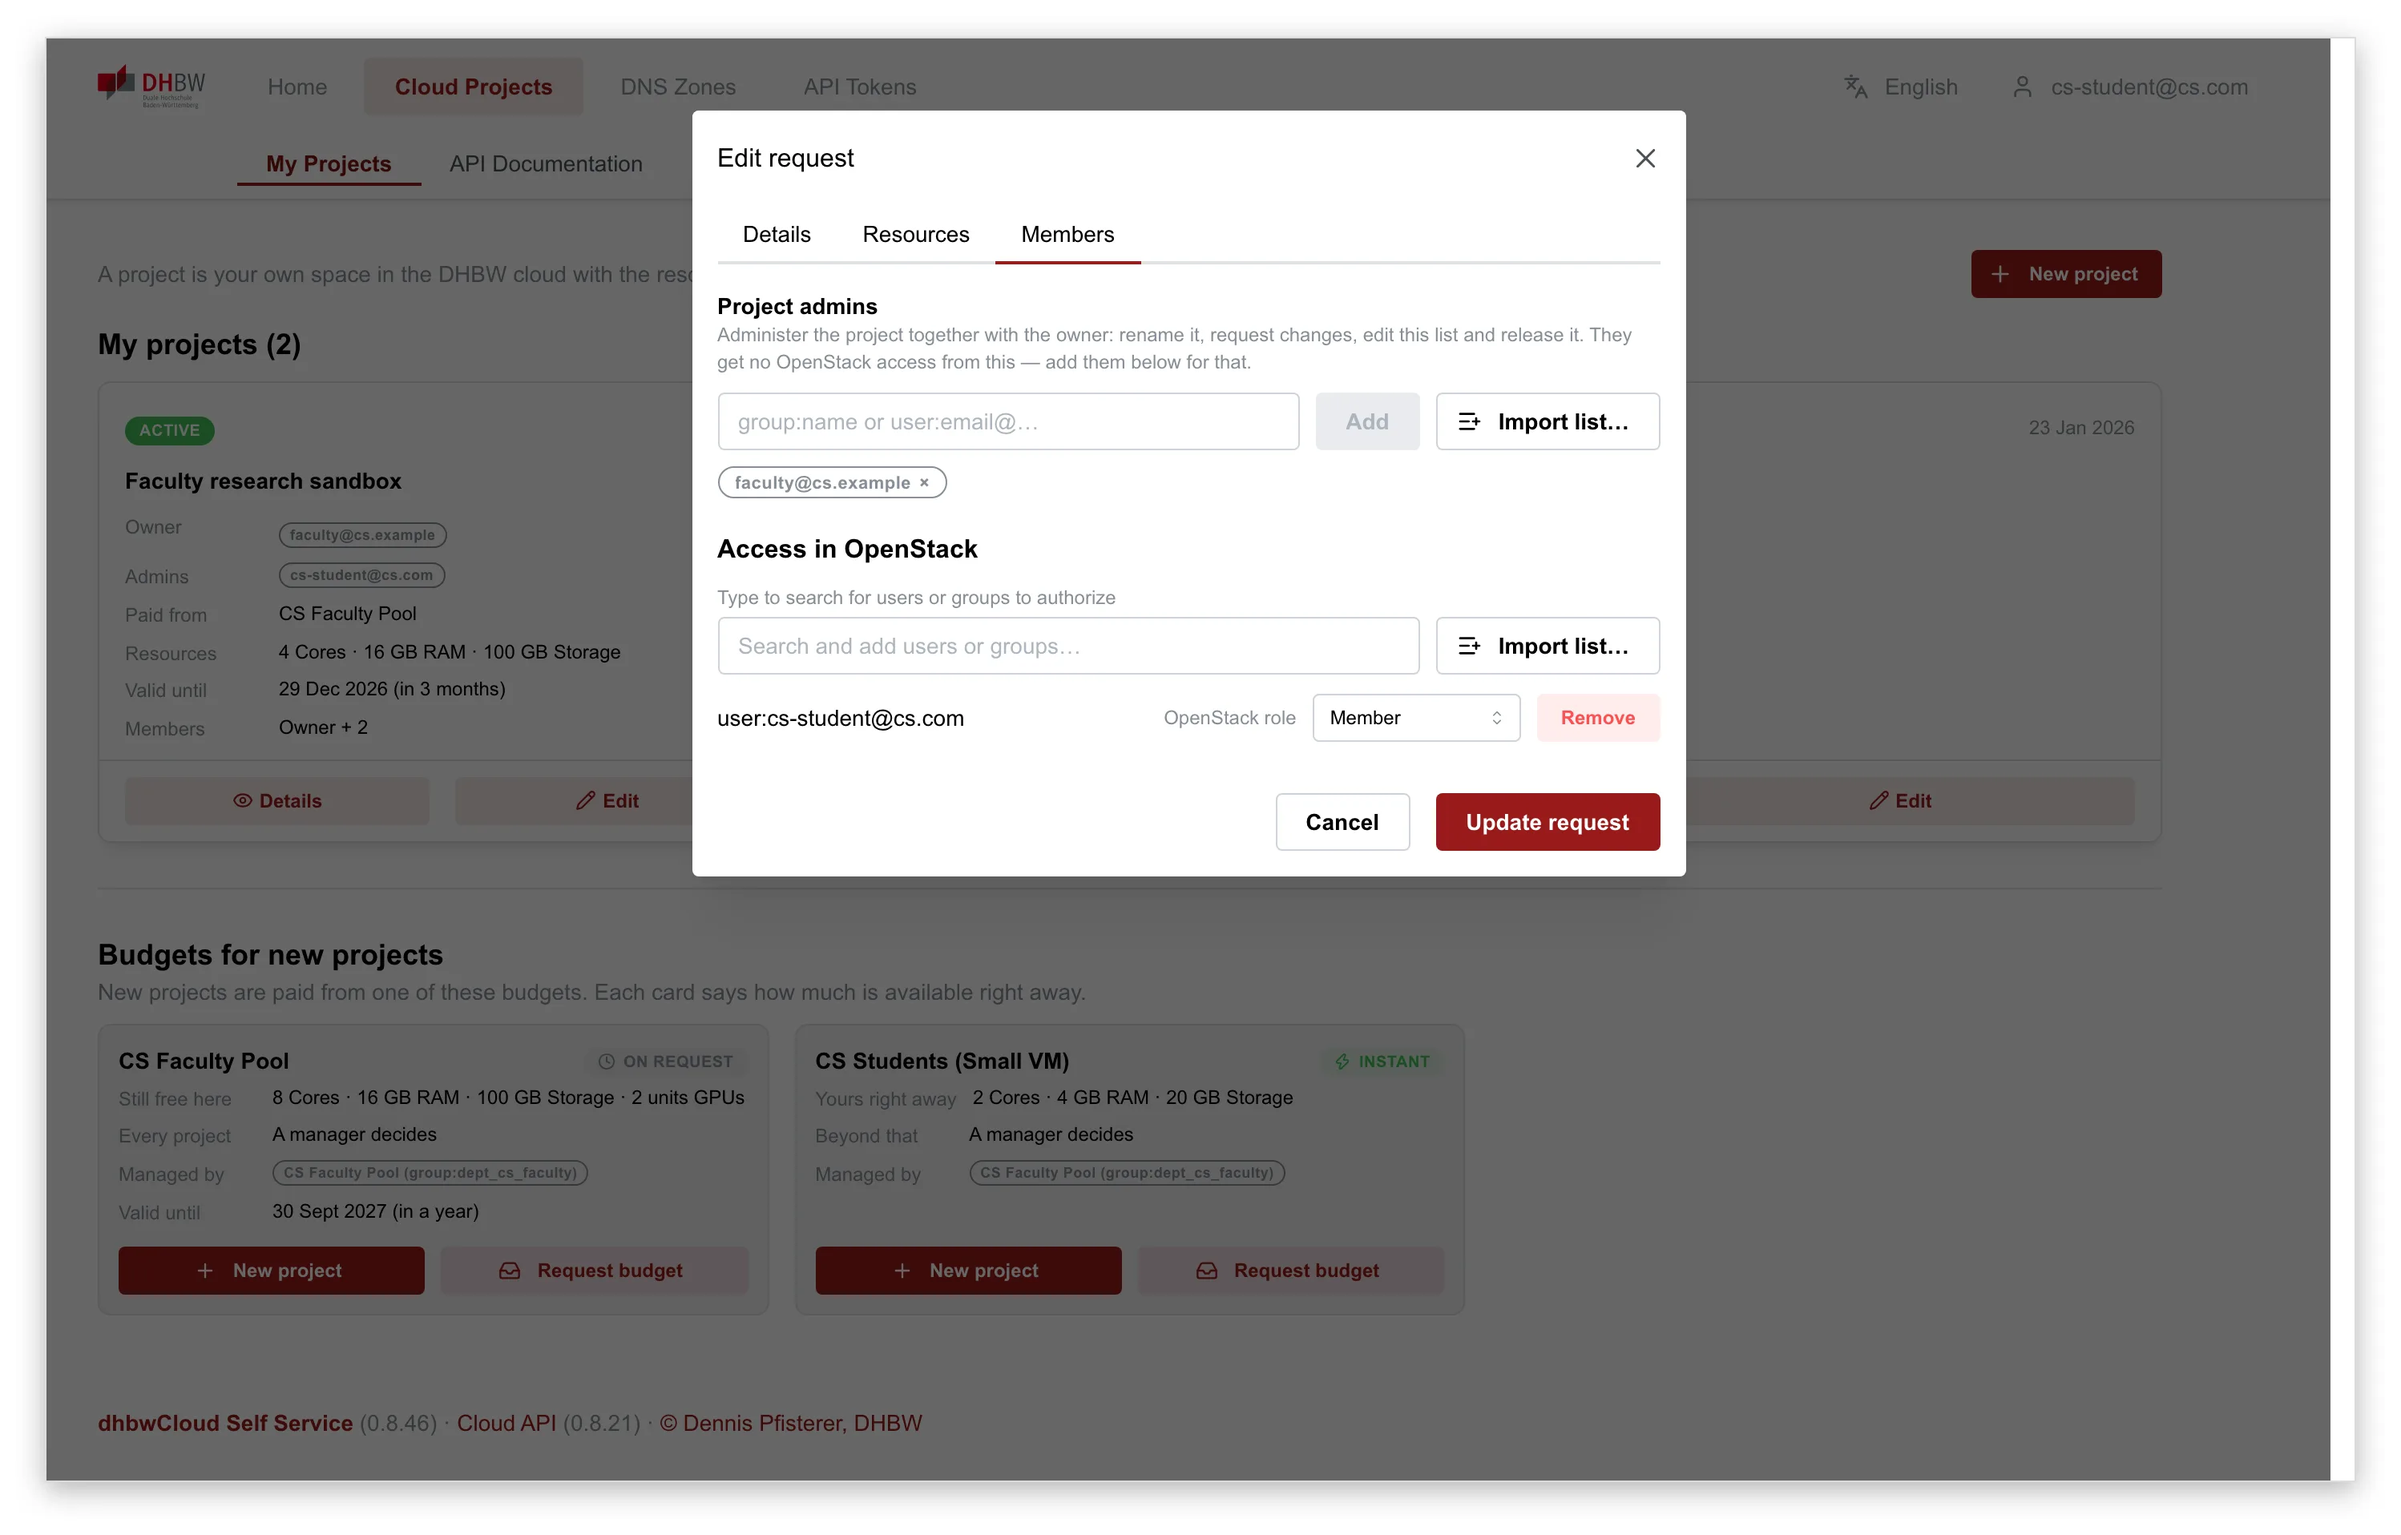
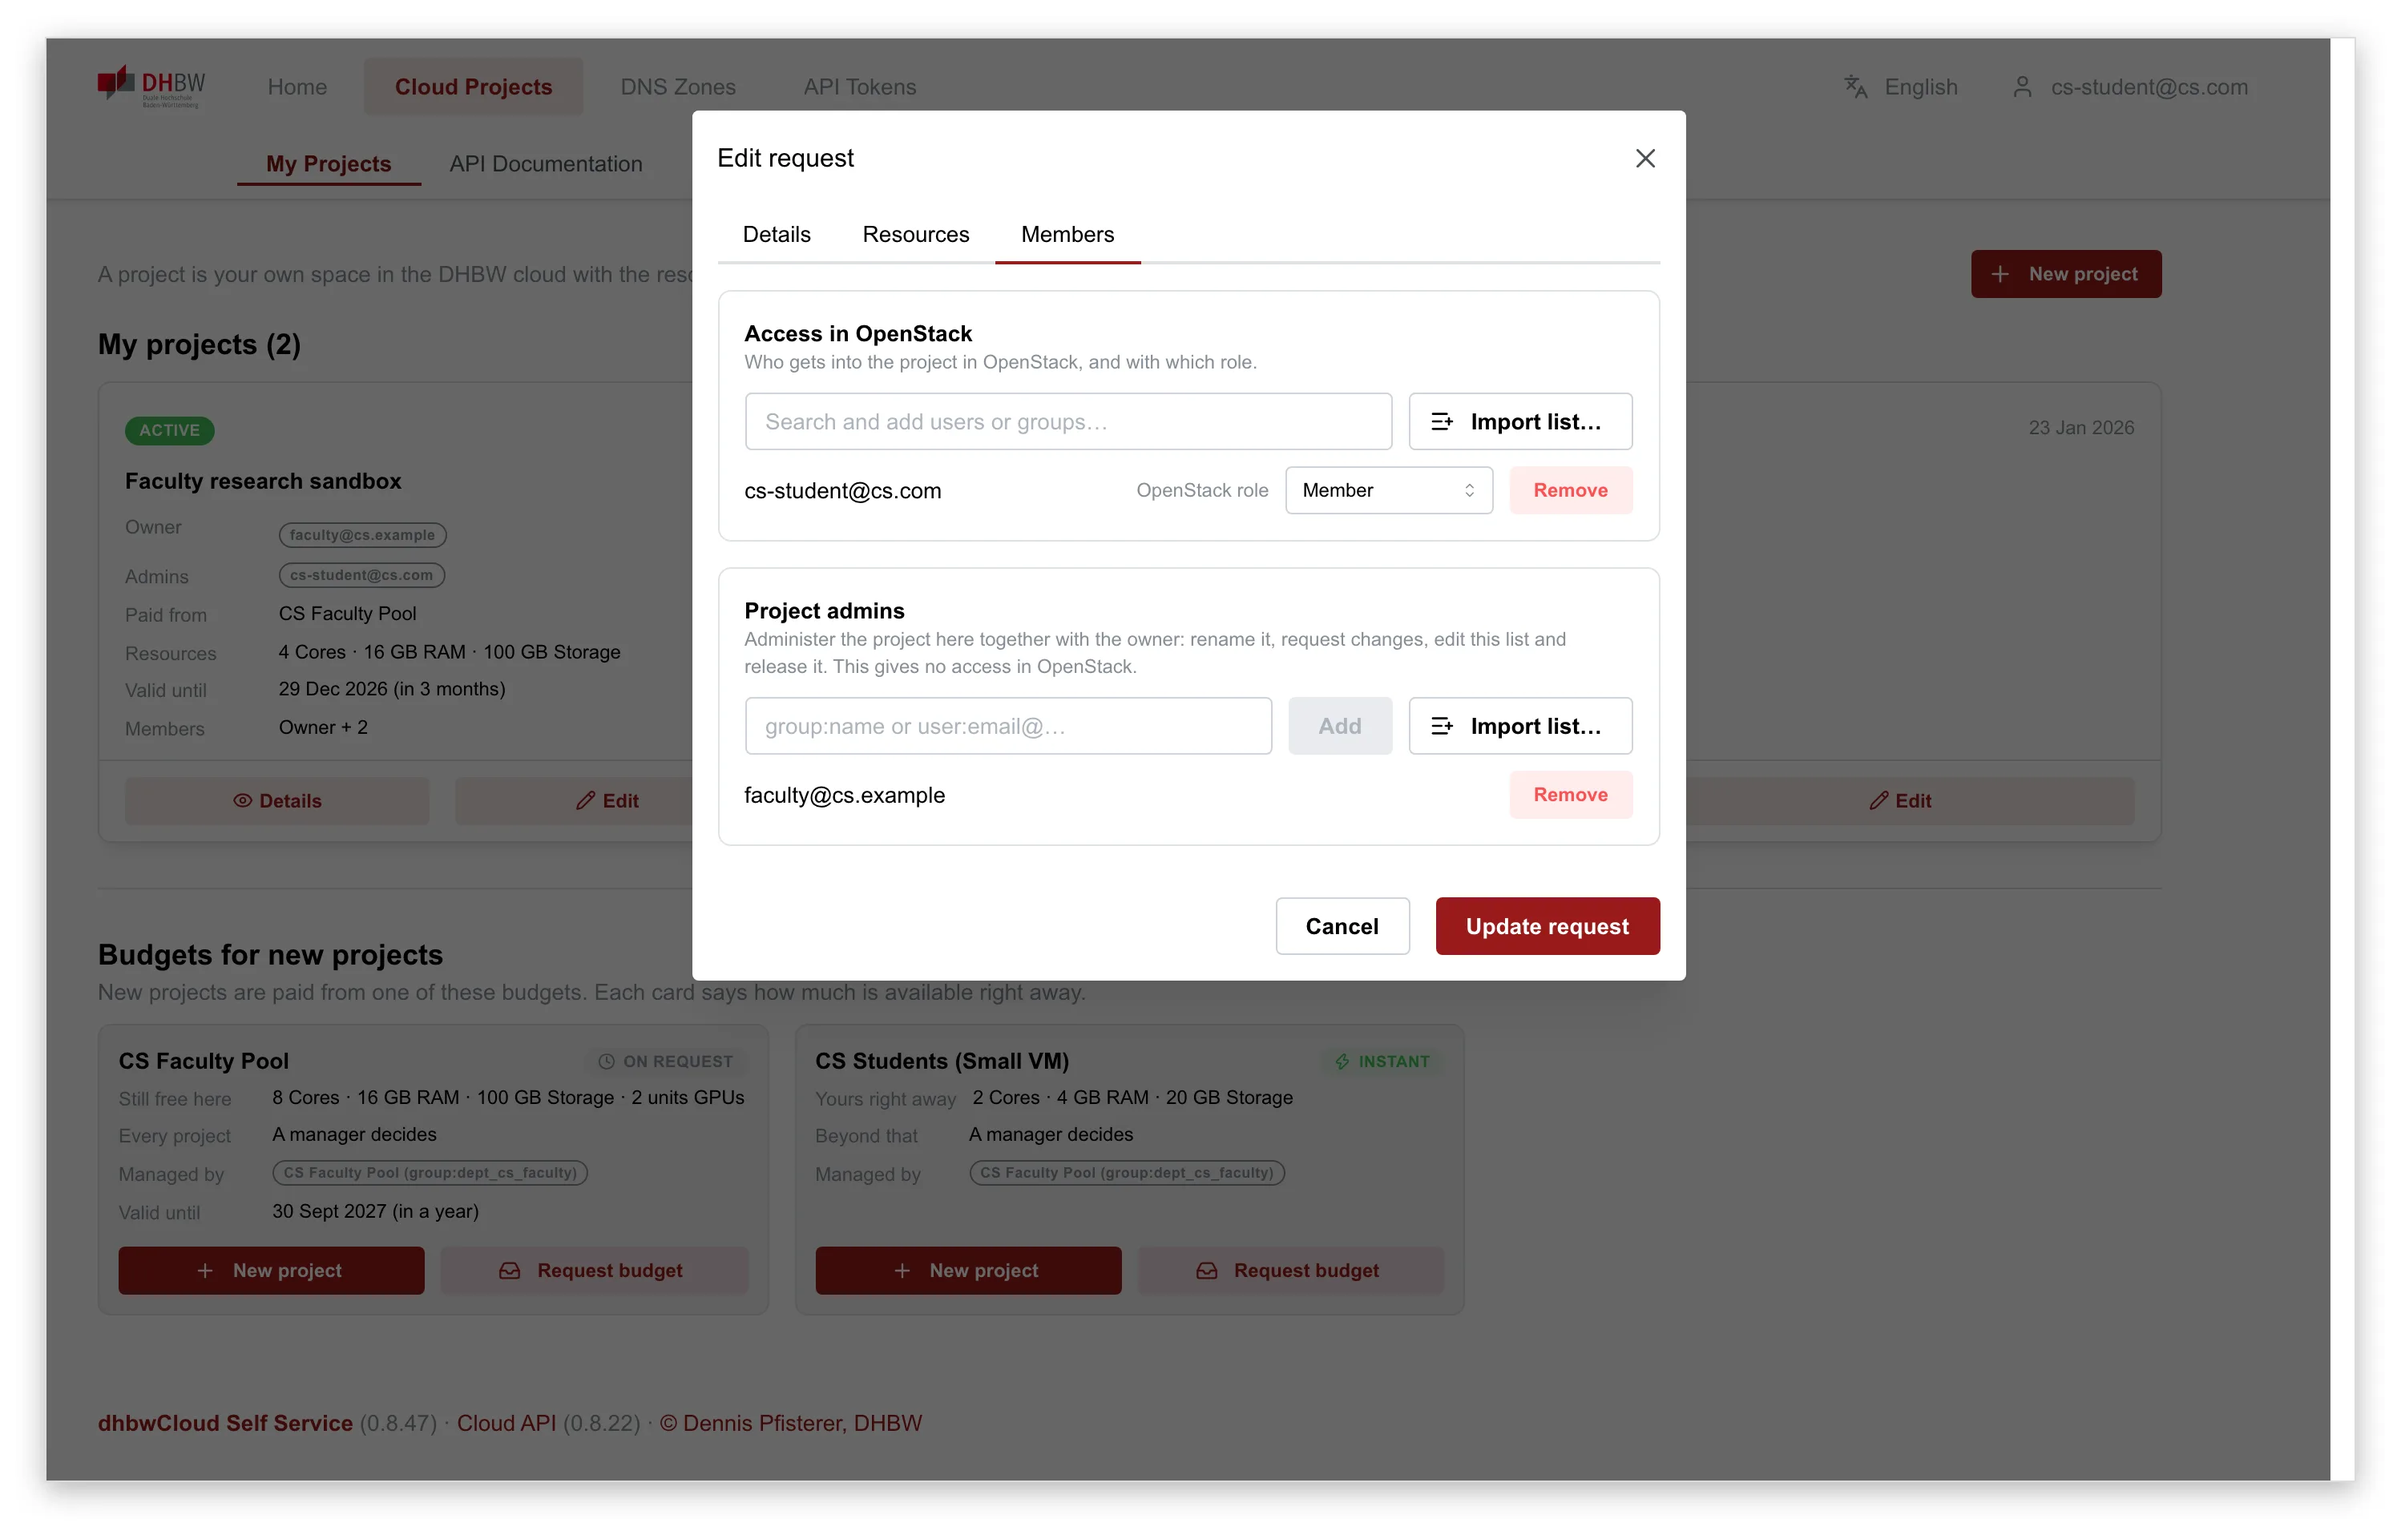
projects: access and project admins as two boxes of the same make
The Members tab shows access in OpenStack first and the project admins below it, each in its own box with the same heading, hint, input row and list of rows. Screenshots follow.

diff --git a/web/projects/modal-project-form.jsx b/web/projects/modal-project-form.jsx
@@ -1,5 +1,5 @@
 import { useMemo, useState } from 'react';
-import { Alert, Badge, Group, Select, Stack, Table, Text, Textarea, TextInput } from '@mantine/core';
+import { Alert, Badge, Group, Paper, Select, Stack, Table, Text, Textarea, TextInput } from '@mantine/core';
 import { Clock, Zap } from 'lucide-react';
 import { useTranslation } from 'react-i18next';
 import { useNodesApi } from './api-nodes.jsx';
@@ -501,27 +501,37 @@ export function ProjectFormModal({ opened, onClose, onDone, resources, openstack
         </Stack>
     );
 
+    // Two separate things, so two separate boxes of the same make: who gets
+    // into the project in OpenStack, and who administers it here with the
+    // owner. Access first — it is what most people come to this tab for.
     const membersTab = (
-        <Stack gap="lg">
-        <TokenListEditor
-            label={t('projects.projectForm.admins')}
-            description={t('projects.projectForm.adminsHint')}
-            tokens={form.values.adminScope}
-            onChange={(tokens) => form.setFieldValue('adminScope', tokens)}
-        />
-        <TokenRoleEditor
-            label={t('projects.projectForm.access')}
-            authorizedUsers={authorizedUsers}
-            onAddToken={(token, role) => form.setFieldValue('authorizedUsers', u => u.some(x => x.token === token) ? u : [...u, { token, openstack_role: role }])}
-            onRemoveToken={(token) => form.setFieldValue('authorizedUsers', u => u.filter(x => x.token !== token))}
-            onOpenstackRoleChange={(token, role) => form.setFieldValue('authorizedUsers', u => u.map(x => x.token === token ? { ...x, openstack_role: role || 'member' } : x))}
-            searchResults={tokenSearchResults}
-            isSearching={isSearchingTokens}
-            onSearch={handleSearchTokens}
-            roles={openstackRoles || []}
-            defaultOpenstackRole="member"
-            emptyMessage={t('projects.projectForm.membersEmpty')}
-        />
+        <Stack gap="md">
+            <Paper withBorder radius="md" p="md">
+                <TokenRoleEditor
+                    label={t('projects.projectForm.access')}
+                    description={t('projects.projectForm.accessHint')}
+                    authorizedUsers={authorizedUsers}
+                    onAddToken={(token, role) => form.setFieldValue('authorizedUsers', u => u.some(x => x.token === token) ? u : [...u, { token, openstack_role: role }])}
+                    onRemoveToken={(token) => form.setFieldValue('authorizedUsers', u => u.filter(x => x.token !== token))}
+                    onOpenstackRoleChange={(token, role) => form.setFieldValue('authorizedUsers', u => u.map(x => x.token === token ? { ...x, openstack_role: role || 'member' } : x))}
+                    searchResults={tokenSearchResults}
+                    isSearching={isSearchingTokens}
+                    onSearch={handleSearchTokens}
+                    roles={openstackRoles || []}
+                    defaultOpenstackRole="member"
+                    emptyMessage={t('projects.projectForm.membersEmpty')}
+                />
+            </Paper>
+            <Paper withBorder radius="md" p="md">
+                <TokenListEditor
+                    label={t('projects.projectForm.admins')}
+                    description={t('projects.projectForm.adminsHint')}
+                    tokens={form.values.adminScope}
+                    onChange={(tokens) => form.setFieldValue('adminScope', tokens)}
+                    listAs="rows"
+                    emptyMessage={t('projects.projectForm.adminsEmpty')}
+                />
+            </Paper>
         </Stack>
     );
 

diff --git a/web/projects/component-token-list-editor.jsx b/web/projects/component-token-list-editor.jsx
@@ -5,11 +5,27 @@ import { useTranslation } from 'react-i18next';
 import { PrincipalTokenAutocomplete } from './component-principal-token-autocomplete.jsx';
 import { PrincipalImportModal } from './modal-principal-import.jsx';
 import { tokenDisplay, useTokenLabels } from './token-labels.jsx';
+import { COLOR } from './util-project.jsx';
+
+// EditorHeading is the heading of a list editor — the same size and weight for
+// every list of people on a form, so two of them side by side read as peers.
+export function EditorHeading({ label, description }) {
+    if (!label && !description) return null;
+    return (
+        <div>
+            {label && <Text fw={600} size="sm">{label}</Text>}
+            {description && <Text size="xs" c="dimmed">{description}</Text>}
+        </div>
+    );
+}
 
 // TokenListEditor edits a plain list of user:/group: tokens (admin scope,
 // eligible requesters). Group tokens autocomplete from the directory; user
 // tokens (user:someone@…) can be typed directly.
-export function TokenListEditor({ label, description, tokens, onChange, placeholder, error }) {
+//
+// listAs "badges" suits a compact list inside a larger form; "rows" matches
+// TokenRoleEditor's rows, for where the two stand one above the other.
+export function TokenListEditor({ label, description, tokens, onChange, placeholder, error, listAs = 'badges', emptyMessage }) {
     const { t } = useTranslation();
     const [draft, setDraft] = useState('');
     const [importing, setImporting] = useState(false);
@@ -35,10 +51,7 @@ export function TokenListEditor({ label, description, tokens, onChange, placehol
 
     return (
         <Stack gap="xs">
-            <div>
-                {label && <Text fw={600} size="sm">{label}</Text>}
-                {description && <Text size="xs" c="dimmed">{description}</Text>}
-            </div>
+            <EditorHeading label={label} description={description} />
 
             <Group gap="xs" align="flex-start" wrap="nowrap">
                 <div style={{ flex: 1 }}>
@@ -64,8 +77,19 @@ export function TokenListEditor({ label, description, tokens, onChange, placehol
             )}
 
             {tokens.length === 0
-                ? <Text size="xs" c="dimmed">{t('projects.tokenList.empty')}</Text>
-                : (
+                ? <Text size="xs" c="dimmed">{emptyMessage ?? t('projects.tokenList.empty')}</Text>
+                : listAs === 'rows' ? (
+                    <Stack gap="xs">
+                        {tokens.map(token => (
+                            <Group key={token} justify="space-between" align="center" wrap="nowrap">
+                                <Text size="sm">{tokenDisplay(token, labels[token])}</Text>
+                                <Button size="xs" color={COLOR.negative} variant="light" onClick={() => remove(token)}>
+                                    {t('projects.forms.remove')}
+                                </Button>
+                            </Group>
+                        ))}
+                    </Stack>
+                ) : (
                     <Group gap="xs" wrap="wrap">
                         {tokens.map(token => (
                             <Badge key={token} variant="outline" color="gray" style={{ textTransform: 'none' }}

diff --git a/web/projects/component-token-role-editor.jsx b/web/projects/component-token-role-editor.jsx
@@ -3,11 +3,13 @@ import { Badge, Button, Group, Select, Text, Stack } from '@mantine/core';
 import { ListPlus } from 'lucide-react';
 import { useTranslation } from 'react-i18next';
 import { PrincipalImportModal } from './modal-principal-import.jsx';
+import { tokenDisplay, useTokenLabels } from './token-labels.jsx';
 import { COLOR, formatRoleLabel } from './util-project.jsx';
 import { SearchableItemSelector } from './component-searchable-item-selector.jsx';
 
 export function TokenRoleEditor({
     label,
+    description,
     authorizedUsers,
     onAddToken,
     onRemoveToken,
@@ -25,6 +27,7 @@ export function TokenRoleEditor({
 }) {
     const { t } = useTranslation();
     const [importing, setImporting] = useState(false);
+    const labels = useTokenLabels((authorizedUsers || []).map(a => a.token));
     const noUsers = emptyMessage ?? t('projects.memberEditor.empty');
     const renderSearchResult = (item, onAdd, buttonLabel) => (
         <Group justify="space-between" key={item}>
@@ -42,8 +45,8 @@ export function TokenRoleEditor({
     const renderItem = (auth, onRemove) => {
         if (!auth) return null;
         return (
-            <Group justify="space-between" key={auth.token} align="center">
-                <Text size="sm">{auth.token}</Text>
+            <Group justify="space-between" key={auth.token} align="center" wrap="nowrap">
+                <Text size="sm">{tokenDisplay(auth.token, labels[auth.token])}</Text>
                 <Group gap="xs">
                     <Text size="xs" c="dimmed">{t('projects.memberEditor.openstackRole')}</Text>
                     <Select
@@ -97,7 +100,7 @@ export function TokenRoleEditor({
             isSearching={isSearching}
             onSearch={onSearch}
             placeholder={t('projects.memberEditor.placeholder')}
-            searchDescription={t('projects.memberEditor.searchHint')}
+            searchDescription={description ?? t('projects.memberEditor.searchHint')}
             emptyMessage={noUsers}
             buttonLabel={t('projects.forms.add')}
             renderItem={renderItem}

diff --git a/web/projects/component-searchable-item-selector.jsx b/web/projects/component-searchable-item-selector.jsx
@@ -1,5 +1,6 @@
 import { Badge, Button, Group, Loader, Paper, Stack, Text, TextInput } from '@mantine/core';
 import { useTranslation } from 'react-i18next';
+import { EditorHeading } from './component-token-list-editor.jsx';
 
 export function SearchableItemSelector({
     label,
@@ -23,16 +24,14 @@ export function SearchableItemSelector({
     const { t } = useTranslation();
     const addLabel = buttonLabel ?? t('projects.forms.add');
     return (
-        <div>
-            <Text fw={600} mb="xs">{label}</Text>
-            <Stack gap="sm">
+        <Stack gap="xs">
+            <EditorHeading label={label} description={searchDescription ?? t('projects.itemSelector.searchHint')} />
                 <Group gap="xs" align="flex-end" wrap="nowrap">
                     <TextInput
                         style={{ flex: 1 }}
                         placeholder={placeholder ?? t('projects.itemSelector.placeholder')}
                         onChange={(e) => onSearch(e.target.value)}
                         onFocus={onFocus}
-                        description={searchDescription ?? t('projects.itemSelector.searchHint')}
                         rightSection={isSearching && <Loader size="xs" />}
                     />
                     {searchAction}
@@ -61,7 +60,7 @@ export function SearchableItemSelector({
                 )}
 
                 {selectedItems.length === 0 ? (
-                    <Text size="xs" c="dimmed" fw={500}>{emptyMessage ?? t('projects.itemSelector.empty')}</Text>
+                    <Text size="xs" c="dimmed">{emptyMessage ?? t('projects.itemSelector.empty')}</Text>
                 ) : renderItem ? (
                     <Stack gap="xs">
                         {selectedItems.map(item => renderItem(item, onRemove))}
@@ -86,7 +85,6 @@ export function SearchableItemSelector({
                     </Group>
                 )}
                 {error && <Text c="red" size="xs">{error}</Text>}
-            </Stack>
-        </div>
+        </Stack>
     );
 }

diff --git a/README.md b/README.md
@@ -53,9 +53,9 @@ Both areas also include the interactive API documentation of the service behind 
 
 ![Requesting a project](docs/img/02-request-project.webp)
 
-**Project admins and access** — the *Members* tab has two lists. *Project admins* administer the project together with the owner, which gives them no access in OpenStack; *Access in OpenStack* is who gets into the project there, and with which role.
+**Access and project admins** — the *Members* tab has two separate boxes. *Access in OpenStack* is who gets into the project there, and with which role; *Project admins* administer the project here together with the owner, which gives them no access in OpenStack.
 
-![Project admins and access in OpenStack](docs/img/15-project-admins.webp)
+![Access in OpenStack and project admins](docs/img/15-project-admins.webp)
 
 **Importing a list** — every list of people or groups takes a pasted list or a CSV/text file as well. The preview picks the columns (a header is recognised, and roles are taken from a role column), marks each entry as new, duplicate, invalid or already on the list, and adds nothing until every remaining entry can be added.
 
